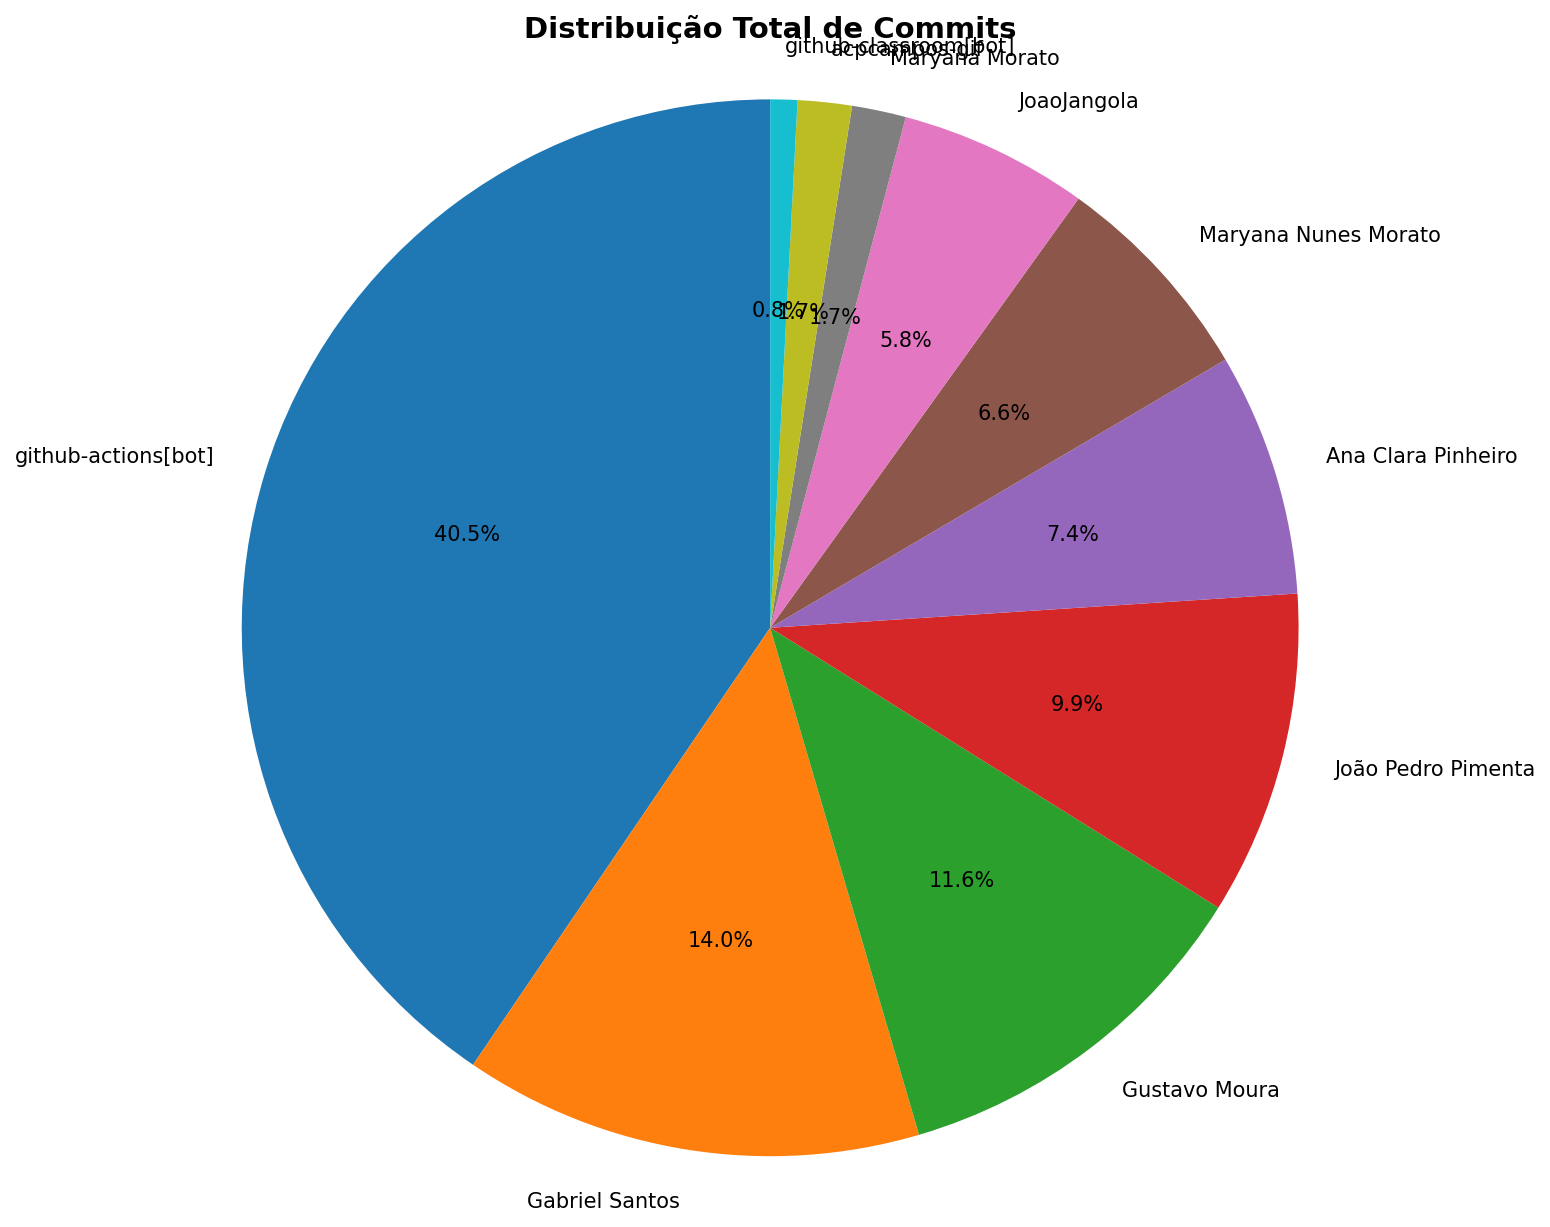
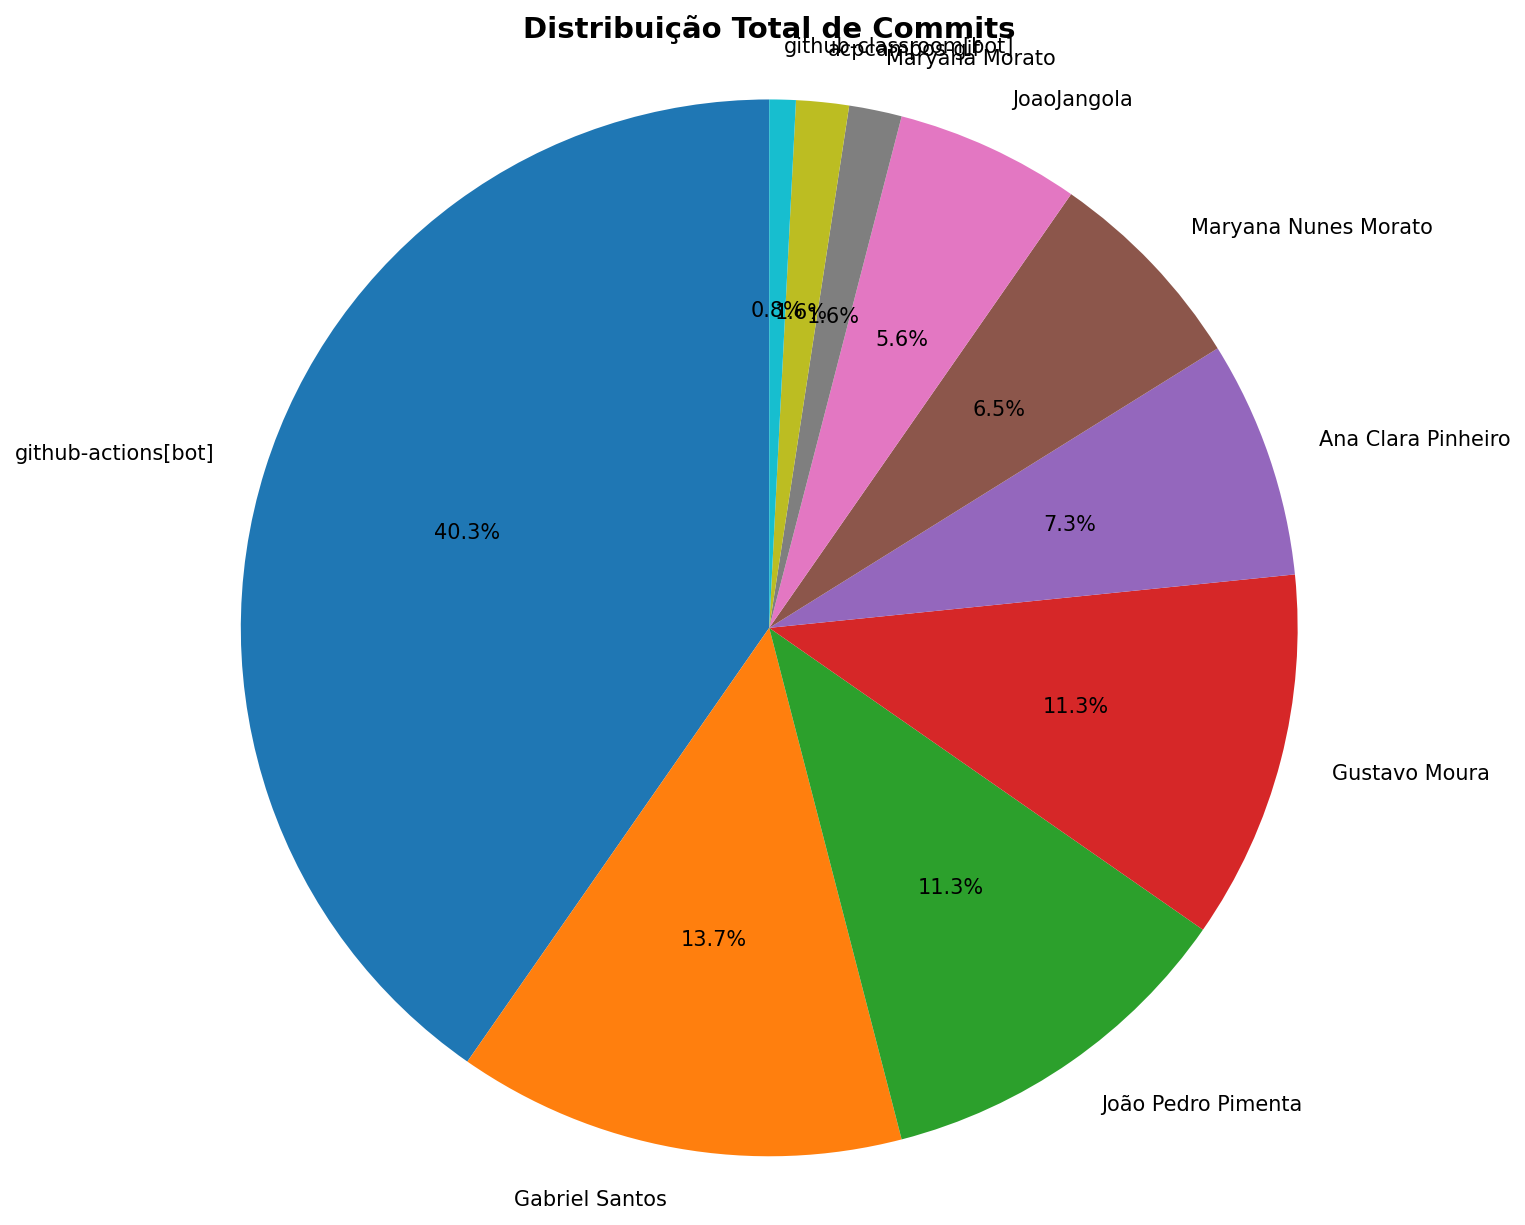
📊 Atualizar relatório de contribuições [skip ci]

diff --git a/docs/CONTRIBUTION_REPORT.md b/docs/CONTRIBUTION_REPORT.md
@@ -1,6 +1,6 @@
 # 📊 Relatório de Contribuições do Projeto
 
-**Última atualização:** 01/06/2026 23:15
+**Última atualização:** 02/06/2026 22:45
 
 ---
 
@@ -12,43 +12,43 @@
 | Gabriel Santos        |        17 |      3257 |       371 |         60 |             14 |              10 |
 | Gustavo Moura         |        14 |      3377 |       144 |         54 |             12 |               4 |
 | JoaoJangola           |         7 |      2731 |        39 |         48 |              5 |               2 |
-| João Pedro Pimenta    |        12 |      9587 |        34 |         21 |              6 |               2 |
+| João Pedro Pimenta    |        14 |     10352 |        99 |         31 |              6 |               2 |
 | Maryana Morato        |         2 |         9 |         9 |          1 |              2 |               1 |
 | Maryana Nunes Morato  |         8 |      1812 |        94 |         28 |              5 |               3 |
 | acpcampos-gif         |         2 |       145 |        64 |          2 |              2 |               2 |
-| github-actions[bot]   |        49 |       394 |       374 |          3 |             49 |               1 |
+| github-actions[bot]   |        50 |       407 |       387 |          3 |             50 |               1 |
 | github-classroom[bot] |         1 |      2152 |         0 |         45 |              1 |              13 |
 
 
 ## 📅 Contribuições Semanais (Todo o Semestre)
 
-**2026-05-25**: João Pedro Pimenta: 1, Maryana Nunes Morato: 2, github-actions[bot]: 3
+**2026-05-26**: João Pedro Pimenta: 3, Maryana Nunes Morato: 2, github-actions[bot]: 4
 
-**2026-05-18**: João Pedro Pimenta: 2, Maryana Nunes Morato: 3, github-actions[bot]: 3
+**2026-05-19**: João Pedro Pimenta: 2, Maryana Nunes Morato: 3, github-actions[bot]: 3
 
-**2026-05-11**: Maryana Nunes Morato: 3, github-actions[bot]: 2
+**2026-05-12**: Maryana Nunes Morato: 3, github-actions[bot]: 2
 
-**2026-05-04**: Ana Clara Pinheiro: 4, Gabriel Santos: 8, Gustavo Moura: 5, JoaoJangola: 2, João Pedro Pimenta: 5, github-actions[bot]: 17
+**2026-05-05**: Ana Clara Pinheiro: 4, Gabriel Santos: 8, Gustavo Moura: 5, JoaoJangola: 2, João Pedro Pimenta: 5, github-actions[bot]: 17
 
-**2026-04-27**: github-actions[bot]: 1
+**2026-04-28**: github-actions[bot]: 1
 
-**2026-04-20**: JoaoJangola: 1, github-actions[bot]: 2
+**2026-04-21**: JoaoJangola: 1, github-actions[bot]: 2
 
-**2026-04-13**: João Pedro Pimenta: 2, github-actions[bot]: 2
+**2026-04-14**: João Pedro Pimenta: 2, github-actions[bot]: 2
 
-**2026-04-06**: Ana Clara Pinheiro: 1, Gabriel Santos: 2, Gustavo Moura: 3, João Pedro Pimenta: 2, Maryana Morato: 1, github-actions[bot]: 7
+**2026-04-07**: Ana Clara Pinheiro: 1, Gustavo Moura: 3, João Pedro Pimenta: 2, Maryana Morato: 1, github-actions[bot]: 5
 
-**2026-03-30**: Gabriel Santos: 1, github-actions[bot]: 1
+**2026-03-31**: Gabriel Santos: 3, github-actions[bot]: 3
 
-**2026-03-23**: JoaoJangola: 2, github-actions[bot]: 1
+**2026-03-24**: JoaoJangola: 2, github-actions[bot]: 1
 
-**2026-03-16**: Ana Clara Pinheiro: 4, Gabriel Santos: 1, JoaoJangola: 1, Maryana Morato: 1, github-actions[bot]: 8
+**2026-03-17**: Ana Clara Pinheiro: 4, Gabriel Santos: 1, JoaoJangola: 1, github-actions[bot]: 7
 
-**2026-03-09**: Gabriel Santos: 1, Gustavo Moura: 5, github-actions[bot]: 2
+**2026-03-10**: Gabriel Santos: 1, Gustavo Moura: 5, Maryana Morato: 1, github-actions[bot]: 3
 
-**2026-03-02**: Gabriel Santos: 4, Gustavo Moura: 1, JoaoJangola: 1, acpcampos-gif: 2
+**2026-03-03**: Gabriel Santos: 4, Gustavo Moura: 1, JoaoJangola: 1, acpcampos-gif: 2
 
-**2026-02-16**: github-classroom[bot]: 1
+**2026-02-17**: github-classroom[bot]: 1
 
 
 
